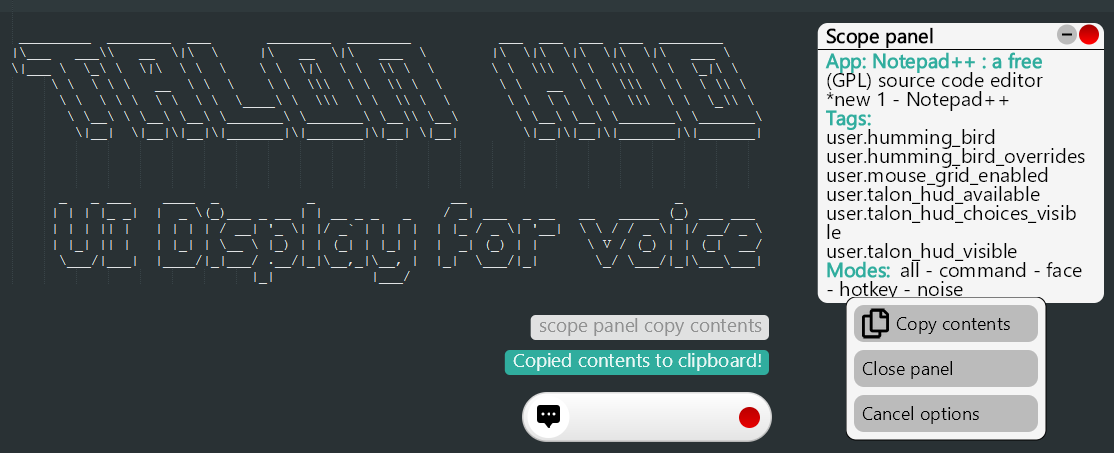
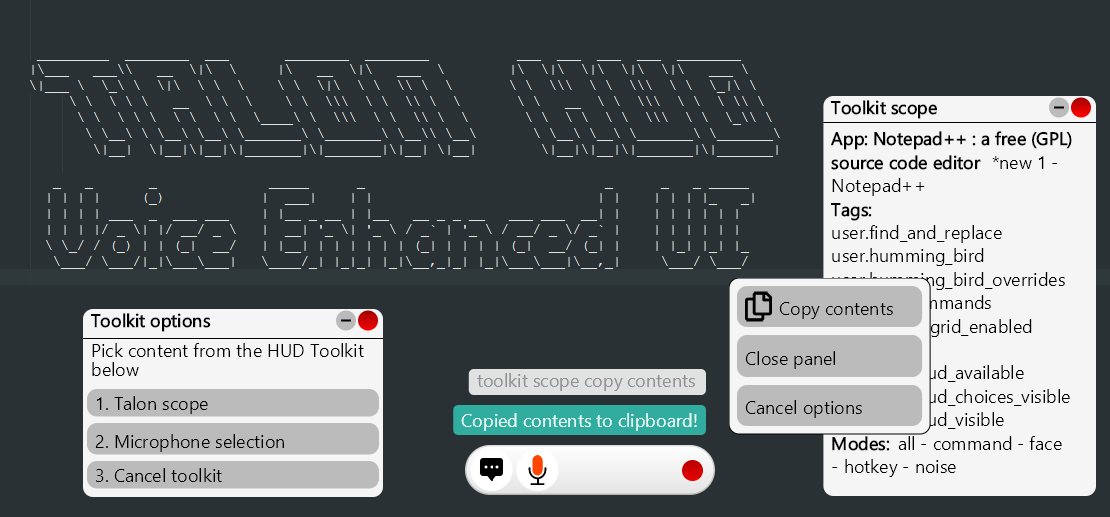
Updated intro image to display the choice widget as well Removed reference to cubeb in microphone poller as it was no longer needed

diff --git a/content/microphone_poller.py b/content/microphone_poller.py
@@ -1,5 +1,4 @@
 from talon import actions, cron, scope, speech_system, ui, app, Module
-from talon.lib import cubeb
 from user.talon_hud.content.poller import Poller
 from user.talon_hud.content.state import hud_content
 
@@ -12,7 +11,6 @@ class MicrophonePoller(Poller):
     
     choices_open = False
     one_click_toggle = False
-    ctx = cubeb.Context()
     
     def enable(self):
         self.enabled = True

diff --git a/README.md b/README.md
@@ -153,6 +153,7 @@ Known issues
 - Line breaks not being properly rendered if they do not contain additional characters
 - Lines are improperly spaced height wise when rendering rich text
 - Text panel footers on second page seem to have text go through the footer
+- Some click dragging issues with the documentation panel where it stays sticky
 
 If any of these ideas seem cool for you to work on, give me a message on the talon slack so we can coordinate stuff.
 
